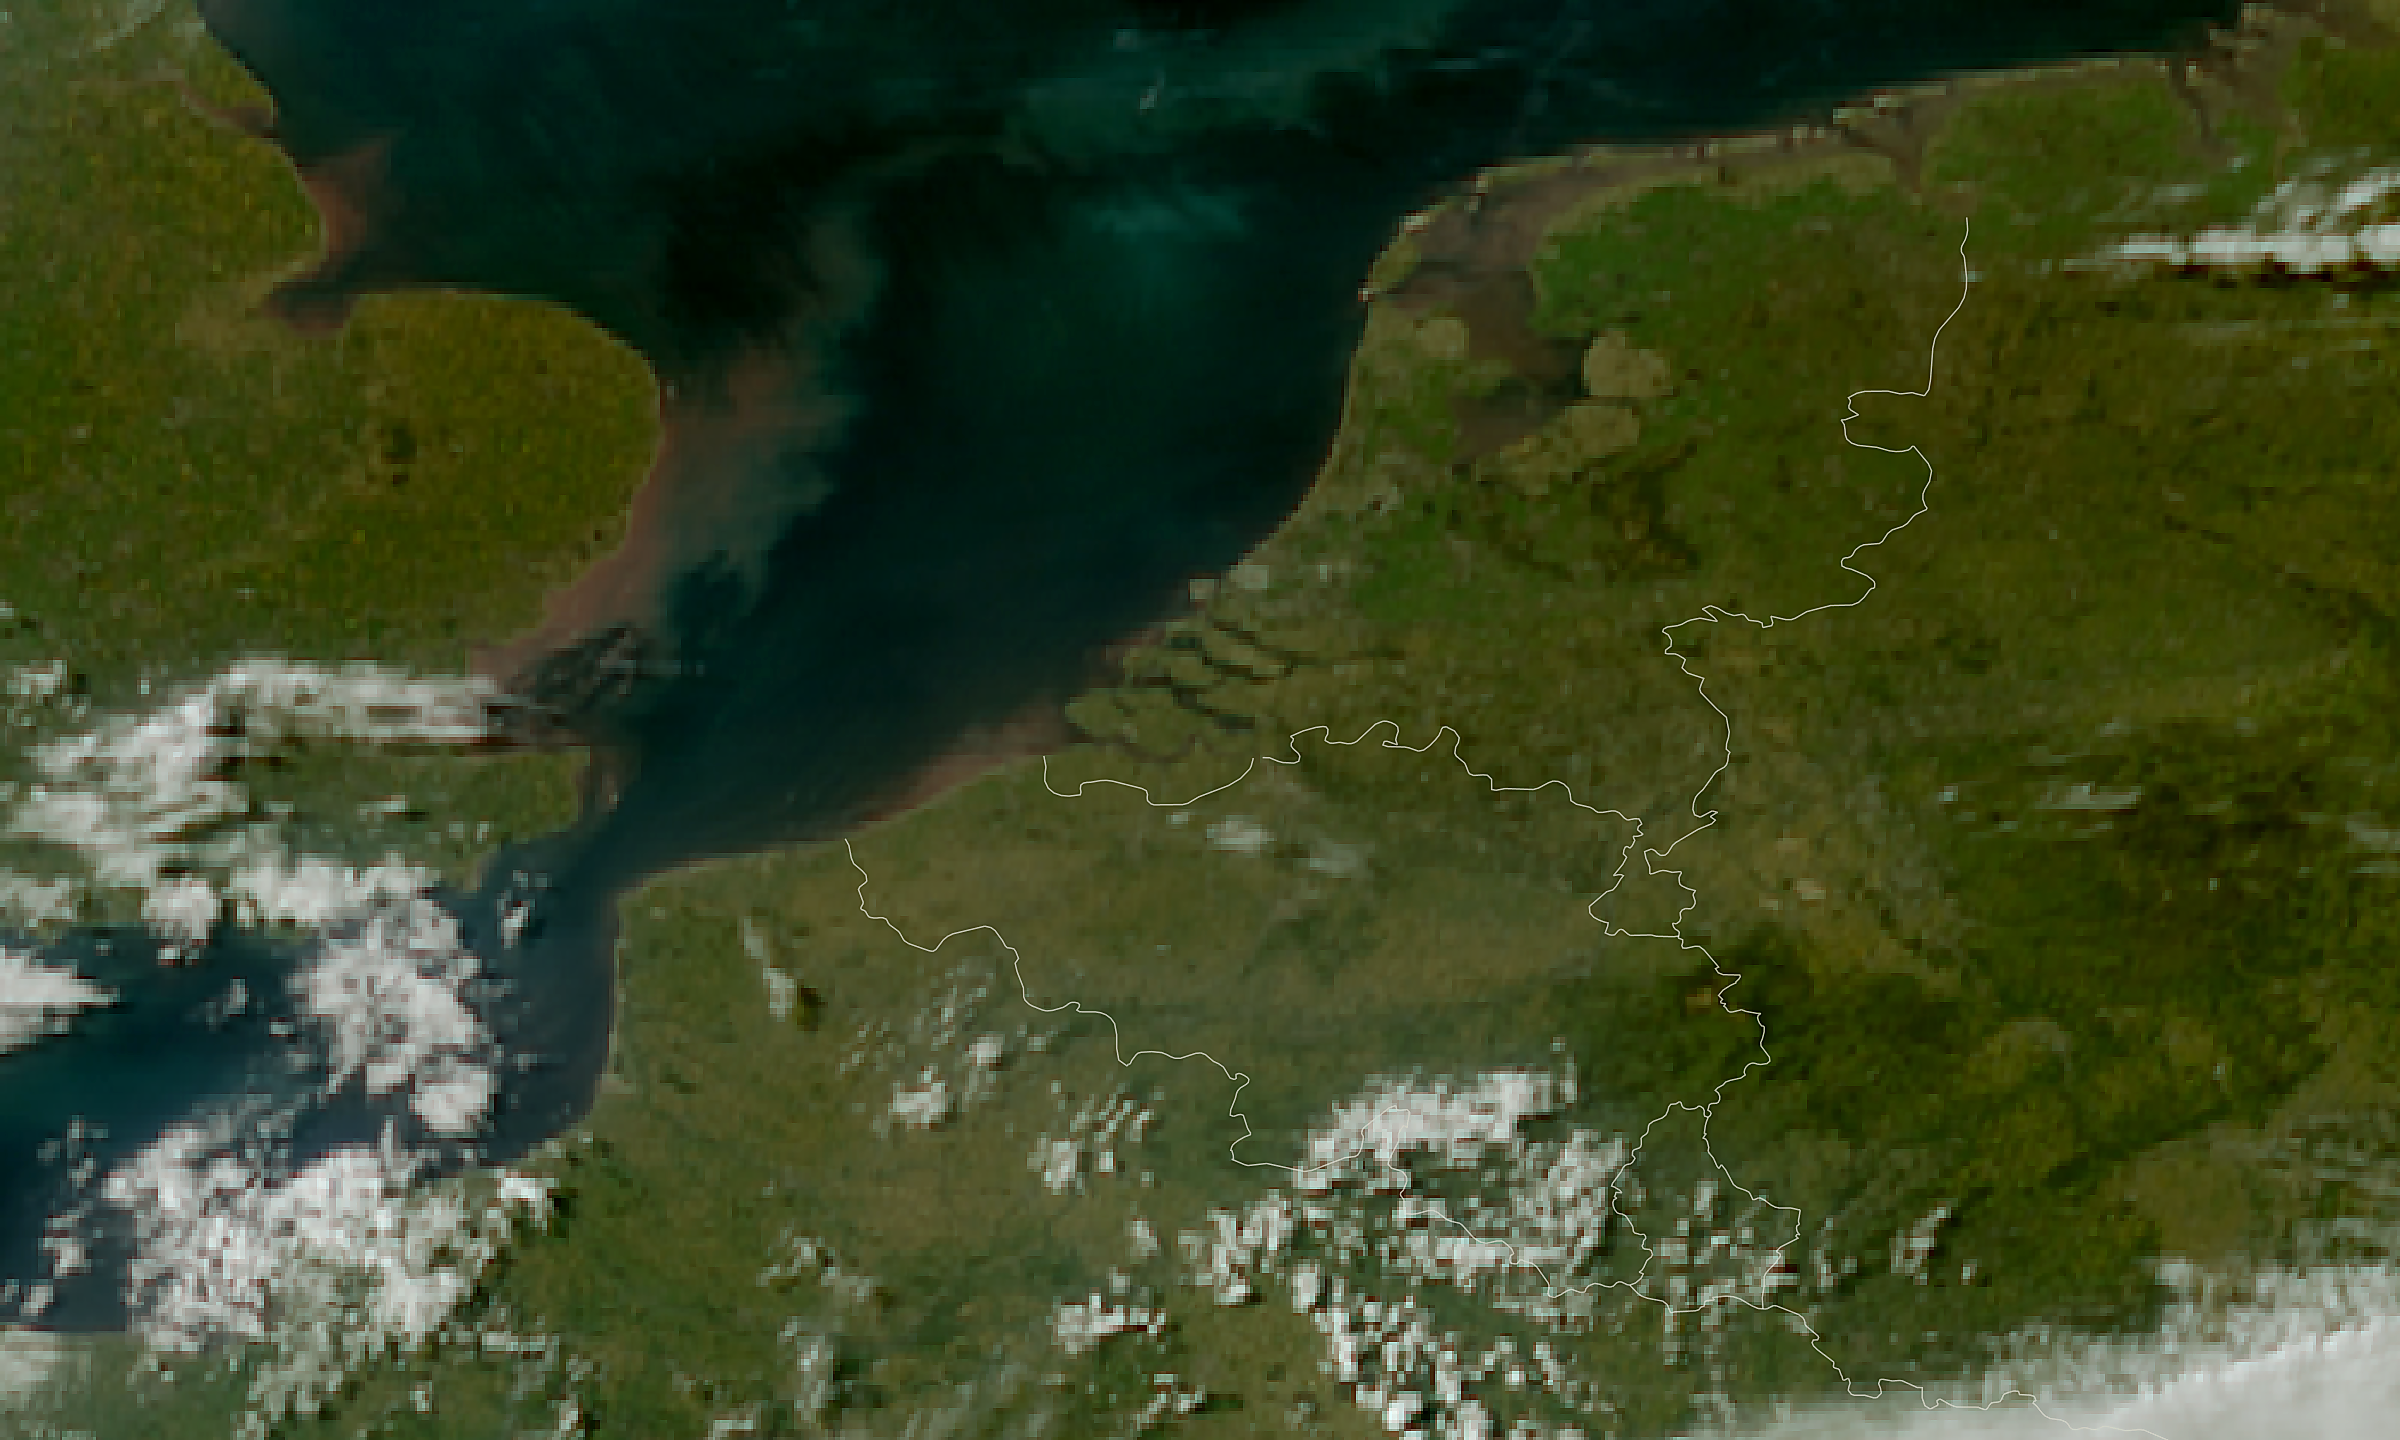
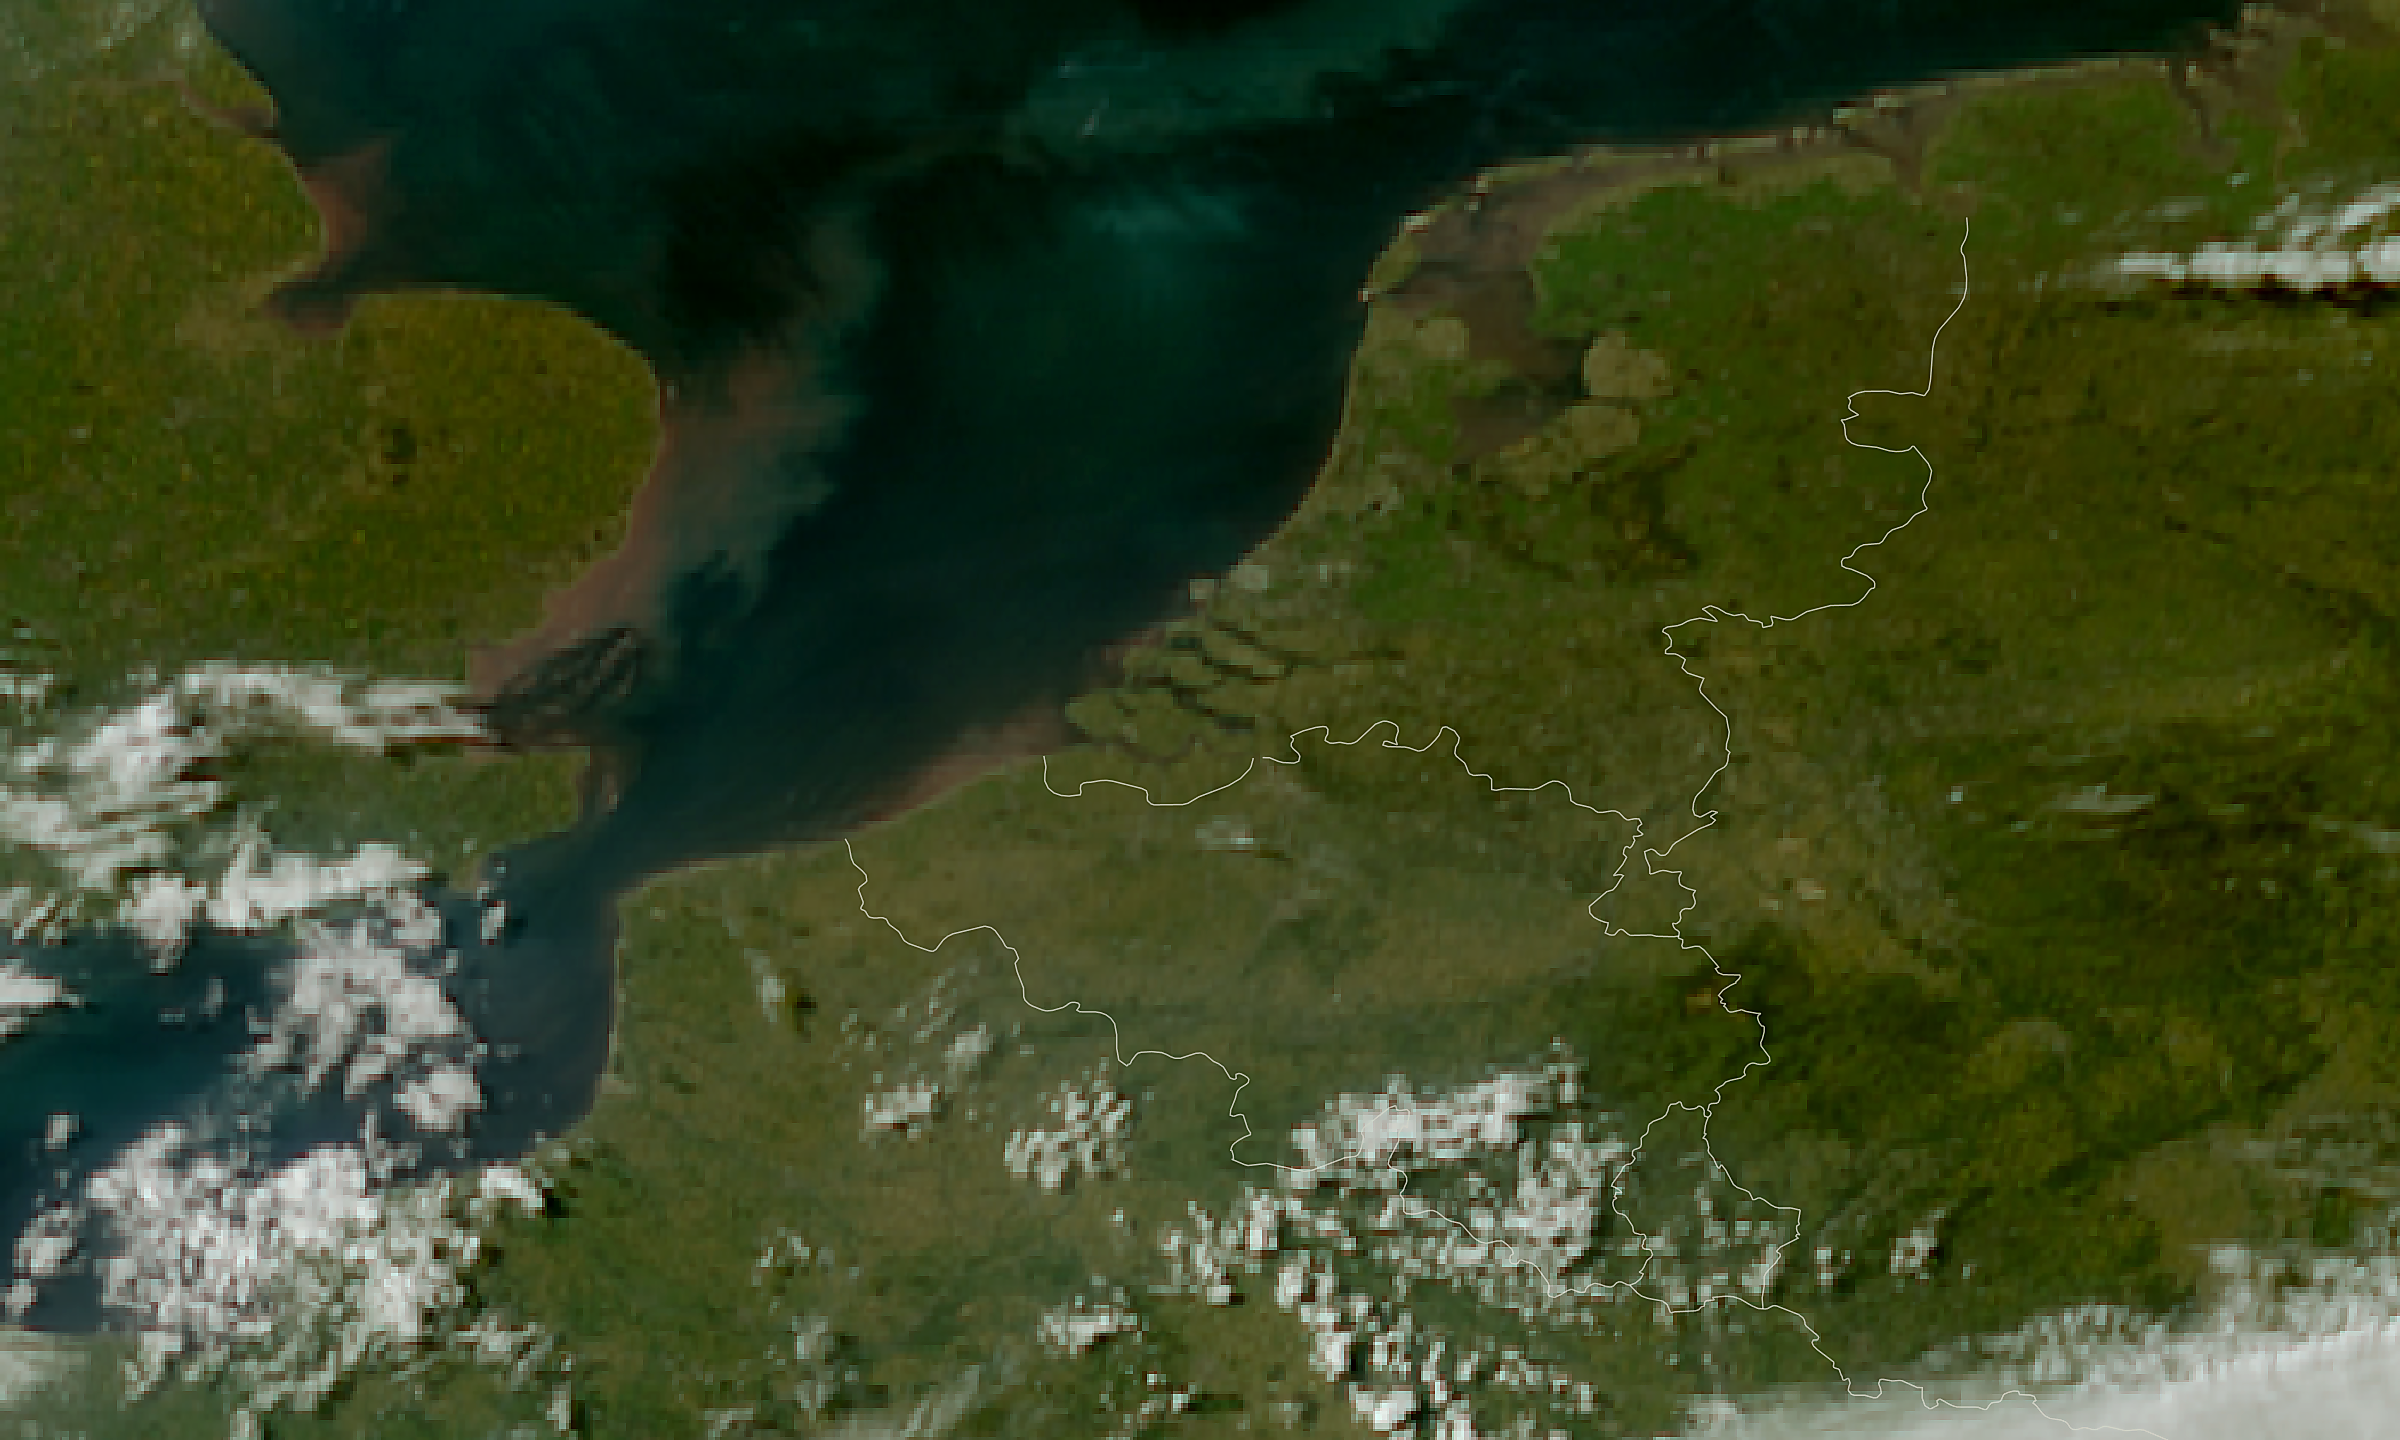
MTG Benelux satellietbeeld update 2026-04-28 18:30

diff --git a/mtg_benelux_meta.js b/mtg_benelux_meta.js
@@ -1,2 +1,2 @@
 const MTG_BENELUX_PRODUCT = "mtg_fd:rgb_truecolour";
-const MTG_BENELUX_TIJD = "2026-04-28T15:50:00Z";
+const MTG_BENELUX_TIJD = "2026-04-28T16:10:00Z";
